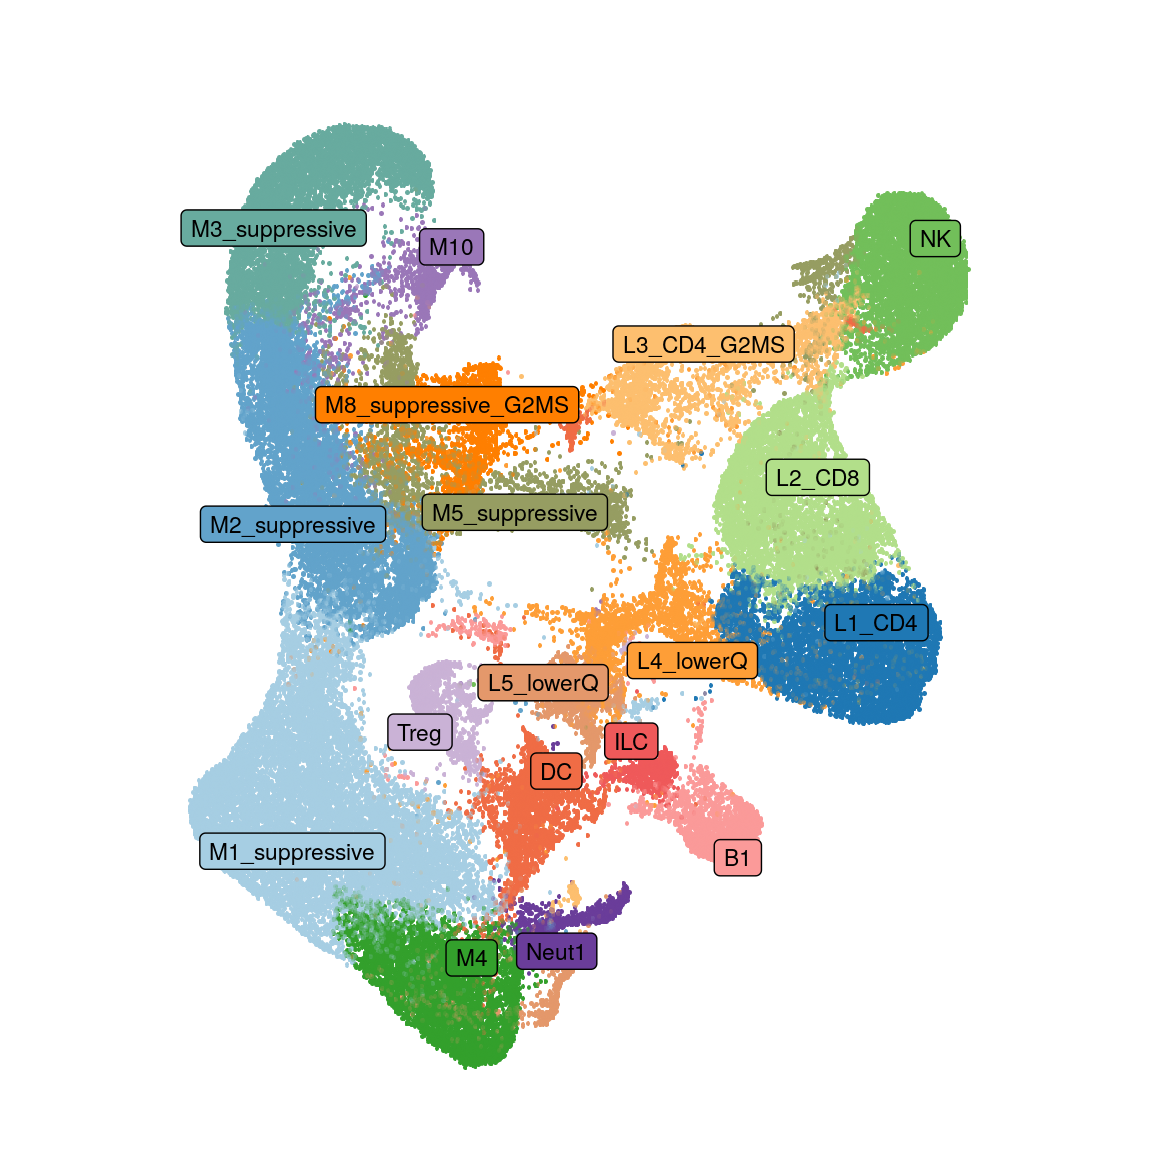
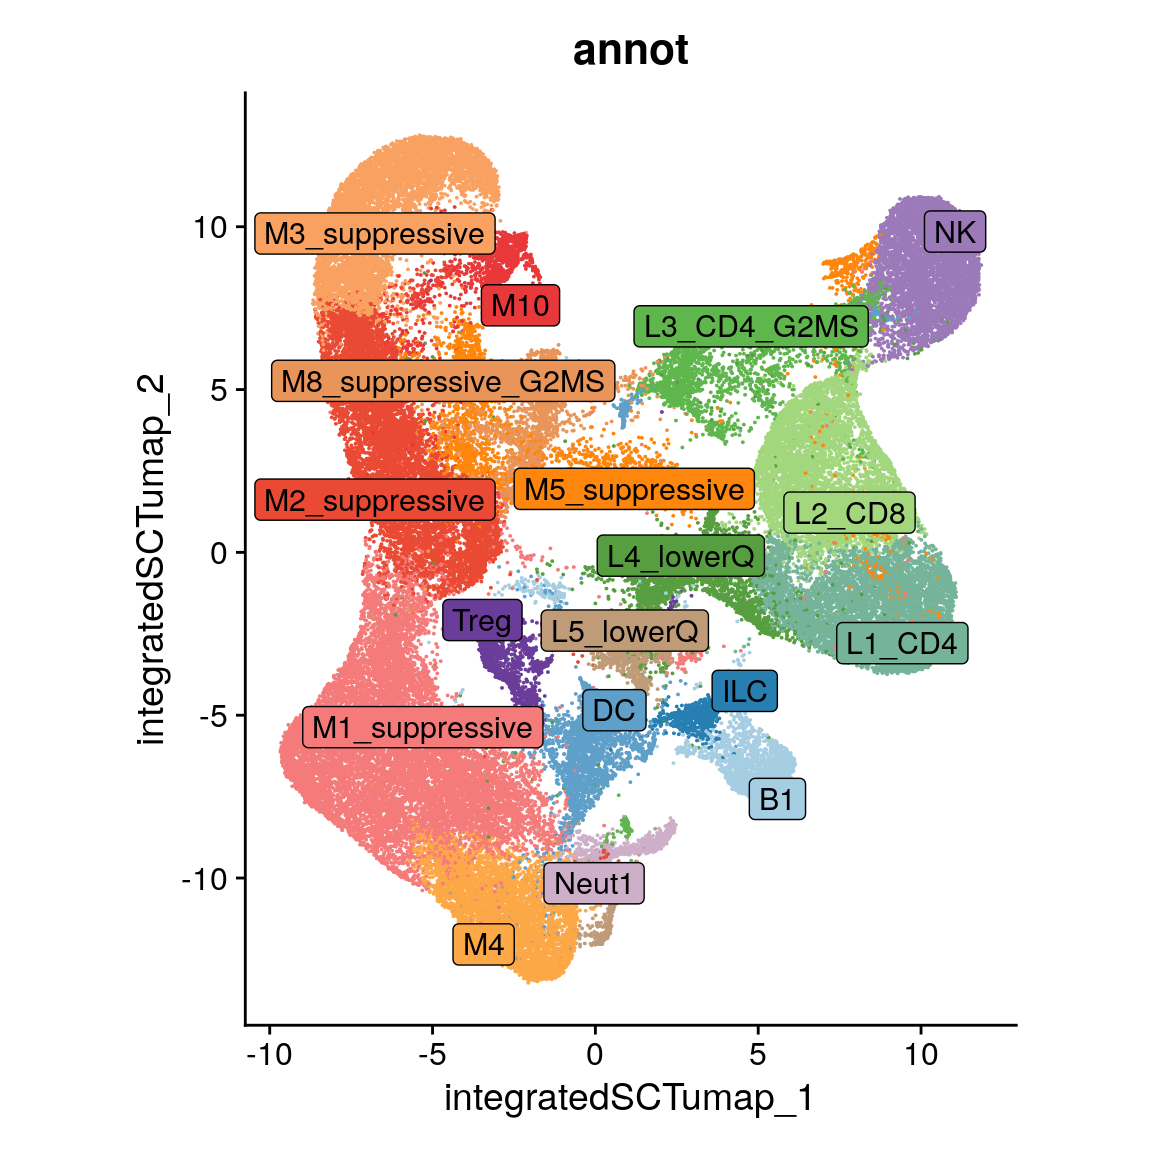
Added split UMAPs

diff --git a/docs/comparative_analysis.html b/docs/comparative_analysis.html
@@ -395,7 +395,7 @@ aria-hidden="true"></span> </a>
 <div class="tab-content">
 <div id="summary" class="tab-pane fade in active">
 <p>
-<strong>Last updated:</strong> 2025-05-05
+<strong>Last updated:</strong> 2025-07-17
 </p>
 <p>
 <strong>Checks:</strong> <span
@@ -433,10 +433,10 @@ changes </a>
 <div id="strongRMarkdownfilestronguncommittedchanges"
 class="panel-collapse collapse">
 <div class="panel-body">
-<p>The R Markdown is untracked by Git. To know which version of the R
-Markdown file created these results, you’ll want to first commit it to
-the Git repo. If you’re still working on the analysis, you can ignore
-this warning. When you’re finished, you can run
+<p>The R Markdown file has unstaged changes. To know which version of
+the R Markdown file created these results, you’ll want to first commit
+it to the Git repo. If you’re still working on the analysis, you can
+ignore this warning. When you’re finished, you can run
 <code>wflow_publish</code> to commit the R Markdown file and build the
 HTML.</p>
 </div>
@@ -571,15 +571,15 @@ code/colors_themes.R
 <div class="panel panel-default">
 <div class="panel-heading">
 <p class="panel-title">
-<a data-toggle="collapse" data-parent="#workflowr-checks" href="#strongRepositoryversionstrongahrefhttpsgithubcomheininSPP1mousescRNAseqtreef74b315790fc0ec3444a761518646b89fdff9a18targetblankf74b315a">
+<a data-toggle="collapse" data-parent="#workflowr-checks" href="#strongRepositoryversionstrongahrefhttpsgithubcomheininSPP1mousescRNAseqtreecb8043f0325eabe94160d7117530169c9e88c4d7targetblankcb8043fa">
 <span class="glyphicon glyphicon-ok text-success"
 aria-hidden="true"></span> <strong>Repository version:</strong>
-<a href="https://github.com/heinin/SPP1_mouse_scRNAseq/tree/f74b315790fc0ec3444a761518646b89fdff9a18" target="_blank">f74b315</a>
+<a href="https://github.com/heinin/SPP1_mouse_scRNAseq/tree/cb8043f0325eabe94160d7117530169c9e88c4d7" target="_blank">cb8043f</a>
 </a>
 </p>
 </div>
 <div
[2 lines of base64/hex data omitted]
 class="panel-collapse collapse">
 <div class="panel-body">
 <p>
@@ -589,7 +589,7 @@ reproducibility.
 </p>
 <p>
 The results in this page were generated with repository version
-<a href="https://github.com/heinin/SPP1_mouse_scRNAseq/tree/f74b315790fc0ec3444a761518646b89fdff9a18" target="_blank">f74b315</a>.
+<a href="https://github.com/heinin/SPP1_mouse_scRNAseq/tree/cb8043f0325eabe94160d7117530169c9e88c4d7" target="_blank">cb8043f</a>.
 See the <em>Past versions</em> tab to see a history of the changes made
 to the R Markdown and HTML files.
 </p>
@@ -605,24 +605,9 @@ were generated:
 <pre><code>
 Ignored files:
     Ignored:    .RData
-    Ignored:    analysis/figure/
-
-Untracked files:
-    Untracked:  analysis/comparative_analysis.Rmd
-    Untracked:  analysis/plot_escape_GSEA.Rmd
-    Untracked:  cluster_sig_top_markers.tsv
-    Untracked:  code/CellChat.R
-    Untracked:  code/CellChat.Rout
-    Untracked:  code/escape_GSEA.R
-    Untracked:  code/escape_GSEA.Rout
-    Untracked:  code/pd1_label_transfer.R
-    Untracked:  code/run_rscript.sh
 
 Unstaged changes:
-    Modified:   Rplots.pdf
-    Modified:   analysis/analyze_compartments.Rmd
-    Modified:   analysis/first_pass.Rmd
-    Modified:   analysis/index.Rmd
+    Modified:   analysis/comparative_analysis.Rmd
 
 </code></pre>
 <p>
@@ -637,10 +622,74 @@ have uncommitted changes.
 <hr>
 </div>
 <div id="versions" class="tab-pane fade">
+
 <p>
-There are no past versions. Publish this analysis with
-<code>wflow_publish()</code> to start tracking its development.
+These are the previous versions of the repository in which changes were
+made to the R Markdown (<code>analysis/comparative_analysis.Rmd</code>)
+and HTML (<code>docs/comparative_analysis.html</code>) files. If you’ve
+configured a remote Git repository (see <code>?wflow_git_remote</code>),
+click on the hyperlinks in the table below to view the files as they
+were in that past version.
 </p>
+<div class="table-responsive">
+<table class="table table-condensed table-hover">
+<thead>
+<tr>
+<th>
+File
+</th>
+<th>
+Version
+</th>
+<th>
+Author
+</th>
+<th>
+Date
+</th>
+<th>
+Message
+</th>
+</tr>
+</thead>
+<tbody>
+<tr>
+<td>
+Rmd
+</td>
+<td>
+<a href="https://github.com/heinin/SPP1_mouse_scRNAseq/blob/f226445e521c3a2d635a15304bbec468db037943/analysis/comparative_analysis.Rmd" target="_blank">f226445</a>
+</td>
+<td>
+heinin
+</td>
+<td>
+2025-07-14
+</td>
+<td>
+Added lymphoid marker expression
+</td>
+</tr>
+<tr>
+<td>
+html
+</td>
+<td>
+<a href="https://rawcdn.githack.com/heinin/SPP1_mouse_scRNAseq/f226445e521c3a2d635a15304bbec468db037943/docs/comparative_analysis.html" target="_blank">f226445</a>
+</td>
+<td>
+heinin
+</td>
+<td>
+2025-07-14
+</td>
+<td>
+Added lymphoid marker expression
+</td>
+</tr>
+</tbody>
+</table>
+</div>
 <hr>
 </div>
 </div>
@@ -678,24 +727,24 @@ seurat_data$annot &lt;- mapvalues(x = seurat_data$sub.cluster,
                                from = cluster_annot$sub.cluster,
                                to = cluster_annot$annot)
 
-DimPlot(seurat_data,
-        group.by = &quot;annot&quot;,
-        cols = carspp1_celltype_col,
-        reduction = reduction,
-        label = T,
-        label.box = T,
-        label.size = 3,
-        repel = T,
-        raster = T,
-        raster.dpi = c(1024, 1024),
-        pt.size = 3) +
-  ggtitle(&quot;&quot;) +
-  theme_classic() +
-  NoLegend() +
-  NoAxes() +
-  coord_fixed(1)</code></pre>
-<p><img src="figure/comparative_analysis.Rmd/unnamed-chunk-2-1.png" width="576" style="display: block; margin: auto;" /></p>
-<pre class="r"><code>seurat_data$Sample &lt;- seurat_data$orig.ident
+#DimPlot(seurat_data,
+#        group.by = &quot;annot&quot;,
+#        cols = carspp1_celltype_col,
+#        reduction = reduction,
+#        label = T,
+#        label.box = T,
+#        label.size = 3,
+#        repel = T,
+#        raster = T,
+#        raster.dpi = c(1024, 1024),
+#        pt.size = 3) +
+#  ggtitle(&quot;&quot;) +
+#  theme_classic() +
+#  NoLegend() +
+#  NoAxes() +
+#  coord_fixed(1)
+
+seurat_data$Sample &lt;- seurat_data$orig.ident
 seurat_data$Sample &lt;- gsub(&quot;SPP1\\+CAR&quot;, &quot;CAR_SPP1&quot;, seurat_data$Sample)
 seurat_data$Sample &lt;- gsub(&quot;TUMOR&quot;, &quot;CTRL&quot;, seurat_data$Sample)
 
@@ -712,7 +761,92 @@ DimPlot(seurat_data,
         label.box = T) +
   coord_fixed() +
   NoLegend()</code></pre>
-<p><img src="figure/comparative_analysis.Rmd/unnamed-chunk-2-2.png" width="576" style="display: block; margin: auto;" /></p>
+<p><img src="figure/comparative_analysis.Rmd/unnamed-chunk-2-1.png" width="576" style="display: block; margin: auto;" /></p>
+<p>
+<button type="button" class="btn btn-default btn-xs btn-workflowr btn-workflowr-fig" data-toggle="collapse" data-target="#fig-unnamed-chunk-2-1">
+Past versions of unnamed-chunk-2-1.png
+</button>
+</p>
+<div id="fig-unnamed-chunk-2-1" class="collapse">
+<div class="table-responsive">
+<table class="table table-condensed table-hover">
+<thead>
+<tr>
+<th>
+Version
+</th>
+<th>
+Author
+</th>
+<th>
+Date
+</th>
+</tr>
+</thead>
+<tbody>
+<tr>
+<td>
+<a href="https://github.com/heinin/SPP1_mouse_scRNAseq/blob/f226445e521c3a2d635a15304bbec468db037943/docs/figure/comparative_analysis.Rmd/unnamed-chunk-2-1.png" target="_blank">f226445</a>
+</td>
+<td>
+heinin
+</td>
+<td>
+2025-07-14
+</td>
+</tr>
+</tbody>
+</table>
+</div>
+</div>
+<p>UMAPs of cell types by group</p>
+<pre class="r"><code>DimPlot(seurat_data,
+        group.by = &quot;annot&quot;,
+        split.by = &quot;Sample&quot;,
+        reduction = &quot;integratedSCTumap&quot;,
+        cols = carspp1_celltype_col) +
+        #label = T,
+        #repel = T,
+        #label.box = T) +
+  coord_fixed()</code></pre>
+<p><img src="figure/comparative_analysis.Rmd/unnamed-chunk-3-1.png" width="960" style="display: block; margin: auto;" /></p>
+<p>
+<button type="button" class="btn btn-default btn-xs btn-workflowr btn-workflowr-fig" data-toggle="collapse" data-target="#fig-unnamed-chunk-3-1">
+Past versions of unnamed-chunk-3-1.png
+</button>
+</p>
+<div id="fig-unnamed-chunk-3-1" class="collapse">
+<div class="table-responsive">
+<table class="table table-condensed table-hover">
+<thead>
+<tr>
+<th>
+Version
+</th>
+<th>
+Author
+</th>
+<th>
+Date
+</th>
+</tr>
+</thead>
+<tbody>
+<tr>
+<td>
+<a href="https://github.com/heinin/SPP1_mouse_scRNAseq/blob/f226445e521c3a2d635a15304bbec468db037943/docs/figure/comparative_analysis.Rmd/unnamed-chunk-3-1.png" target="_blank">f226445</a>
+</td>
+<td>
+heinin
+</td>
+<td>
+2025-07-14
+</td>
+</tr>
+</tbody>
+</table>
+</div>
+</div>
 </div>
 <div id="cell-type-proportions" class="section level2">
 <h2>Cell type proportions</h2>
@@ -724,7 +858,44 @@ DimPlot(seurat_data,
                plot_colors = carspp1_celltype_col,
                var_names =  c(&quot;Frequency (%)&quot;, &quot;&quot;),
                legend_title = &quot;Celltype&quot;)</code></pre>
-<p><img src="figure/comparative_analysis.Rmd/unnamed-chunk-3-1.png" width="768" style="display: block; margin: auto;" /></p>
+<p><img src="figure/comparative_analysis.Rmd/unnamed-chunk-4-1.png" width="768" style="display: block; margin: auto;" /></p>
+<p>
+<button type="button" class="btn btn-default btn-xs btn-workflowr btn-workflowr-fig" data-toggle="collapse" data-target="#fig-unnamed-chunk-4-1">
+Past versions of unnamed-chunk-4-1.png
+</button>
+</p>
+<div id="fig-unnamed-chunk-4-1" class="collapse">
+<div class="table-responsive">
+<table class="table table-condensed table-hover">
+<thead>
+<tr>
+<th>
+Version
+</th>
+<th>
+Author
+</th>
+<th>
+Date
+</th>
+</tr>
+</thead>
+<tbody>
+<tr>
+<td>
+<a href="https://github.com/heinin/SPP1_mouse_scRNAseq/blob/f226445e521c3a2d635a15304bbec468db037943/docs/figure/comparative_analysis.Rmd/unnamed-chunk-4-1.png" target="_blank">f226445</a>
+</td>
+<td>
+heinin
+</td>
+<td>
+2025-07-14
+</td>
+</tr>
+</tbody>
+</table>
+</div>
+</div>
 <p>Using scProportionTest. The first group (for example, CAR in “CAR
 vs. CTRL”) gets positive values.</p>
 <pre class="r"><code>prop_test &lt;- sc_utils(seurat_data)
@@ -740,7 +911,7 @@ prop_test &lt;- permutation_test(
 perm_plot &lt;- permutation_plot(prop_test)
 
 perm_plot + scale_colour_manual(values = c(&quot;tomato&quot;, &quot;azure2&quot;)) + NoLegend() + ggtitle(&quot;CAR vs. CTRL&quot;)</code></pre>
-<p><img src="figure/comparative_analysis.Rmd/unnamed-chunk-4-1.png" width="384" style="display: block; margin: auto;" /></p>
+<p><img src="figure/comparative_analysis.Rmd/unnamed-chunk-5-1.png" width="384" style="display: block; margin: auto;" /></p>
 <pre class="r"><code># SPP1 vs. CTRL
 prop_test &lt;- permutation_test(
   prop_test, cluster_identity = &quot;annot&quot;,
@@ -750,7 +921,7 @@ prop_test &lt;- permutation_test(
 perm_plot &lt;- permutation_plot(prop_test)
 
 perm_plot + scale_colour_manual(values = c(&quot;tomato&quot;, &quot;azure2&quot;)) + NoLegend() + ggtitle(&quot;SPP1 vs. CTRL&quot;)</code></pre>
-<p><img src="figure/comparative_analysis.Rmd/unnamed-chunk-4-2.png" width="384" style="display: block; margin: auto;" /></p>
+<p><img src="figure/comparative_analysis.Rmd/unnamed-chunk-5-2.png" width="384" style="display: block; margin: auto;" /></p>
 <pre class="r"><code># CAR+SPP1 vs. CTRL
 prop_test &lt;- permutation_test(
   prop_test, cluster_identity = &quot;annot&quot;,
@@ -760,7 +931,7 @@ prop_test &lt;- permutation_test(
 perm_plot &lt;- permutation_plot(prop_test)
 
 perm_plot + scale_colour_manual(values = c(&quot;tomato&quot;, &quot;azure2&quot;)) + NoLegend() + ggtitle(&quot;SPP1+CAR vs. CTRL&quot;)</code></pre>
-<p><img src="figure/comparative_analysis.Rmd/unnamed-chunk-4-3.png" width="384" style="display: block; margin: auto;" /></p>
+<p><img src="figure/comparative_analysis.Rmd/unnamed-chunk-5-3.png" width="384" style="display: block; margin: auto;" /></p>
 <pre class="r"><code># CAR+SPP1 vs. CAR
 prop_test &lt;- permutation_test(
   prop_test, cluster_identity = &quot;annot&quot;,
@@ -770,7 +941,7 @@ prop_test &lt;- permutation_test(
 perm_plot &lt;- permutation_plot(prop_test)
 
 perm_plot + scale_colour_manual(values = c(&quot;tomato&quot;, &quot;azure2&quot;)) + NoLegend() + ggtitle(&quot;SPP1+CAR vs. CAR&quot;)</code></pre>
-<p><img src="figure/comparative_analysis.Rmd/unnamed-chunk-4-4.png" width="384" style="display: block; margin: auto;" /></p>
+<p><img src="figure/comparative_analysis.Rmd/unnamed-chunk-5-4.png" width="384" style="display: block; margin: auto;" /></p>
 <pre class="r"><code># CAR+SPP1 vs. SPP1
 prop_test &lt;- permutation_test(
   prop_test, cluster_identity = &quot;annot&quot;,
@@ -780,7 +951,7 @@ prop_test &lt;- permutation_test(
 perm_plot &lt;- permutation_plot(prop_test)
 
 perm_plot + scale_colour_manual(values = c(&quot;tomato&quot;, &quot;azure2&quot;)) + NoLegend() + ggtitle(&quot;SPP1+CAR vs. SPP1&quot;)</code></pre>
-<p><img src="figure/comparative_analysis.Rmd/unnamed-chunk-4-5.png" width="384" style="display: block; margin: auto;" /></p>
+<p><img src="figure/comparative_analysis.Rmd/unnamed-chunk-5-5.png" width="384" style="display: block; margin: auto;" /></p>
 </div>
 <div id="degs-by-cell-population" class="section level2">
 <h2>DEGs by cell population</h2>
